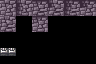
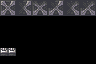
Multi-floor dungeons now present

Changed region(s): [[0.0, 0.0, 1.0, 0.5]]

diff --git a/app/dungeon_maker/terrain_maker.py b/app/dungeon_maker/terrain_maker.py
@@ -114,22 +114,78 @@ class FloorTerrain(Terrain):
 class WallTerrain(WangEdge2Terrain16):
     terrain_like = ('Wall', )
 
-    def _determine_index(self, tilemap, pos: tuple) -> tuple:
-        north, east, south, west = tilemap.get_cardinal_terrain(pos)
-        # Edge is true when we have an adjacent walllike
-        north_edge = bool(north in self.terrain_like)
-        south_edge = bool(south in self.terrain_like)
-        east_edge = bool(east in self.terrain_like)
-        west_edge = bool(west in self.terrain_like)
-        index = 1 * north_edge + 2 * east_edge + 4 * south_edge + 8 * west_edge
-        return index
+    def __init__(self,tileset_image_fn):
+        super().__init__(tileset_image_fn)
+        self.wall_grid = {}
+
+    def single_process(self, tilemap) -> None:
+        all_walls = {pos for pos, terrain in tilemap.terrain_grid.items() if terrain == 'Wall'}
+
+        for pos in all_walls.copy():
+            north, east, south, west = tilemap.get_cardinal_terrain(pos)
+            if east != 'Wall' and west != 'Wall' and south != 'Wall':
+                if tilemap.calc_layer(pos) == 1:
+                    self.wall_grid[pos] = 'Bottom'
+                else:
+                    self.wall_grid[pos] = 'Top'
+                all_walls.remove(pos)
+
+        for pos in all_walls.copy():
+            south = (pos[0], pos[1] + 1)
+            if south in self.wall_grid:
+                self.wall_grid[pos] = 'Top'
+                all_walls.remove(pos)
+
+        for pos in all_walls.copy():
+            north = (pos[0], pos[1] - 1)
+            south = (pos[0], pos[1] + 1)
+            if tilemap.get_terrain(north) == 'Wall' and tilemap.get_terrain(south) != 'Wall' and \
+                    (tilemap.get_layer(pos) == 1 or tilemap.get_layer(south) == 1):
+                self.wall_grid[pos] = 'Bottom'
+                all_walls.remove(pos)
+
+        for pos in all_walls:
+            self.wall_grid[pos] = 'Top'
+
+        # Convert pieces that are surrounded to void
+        convert_to_void = set()
+        for pos in self.wall_grid.keys():
+            if all(kind == 'Top' or not tilemap.check_bounds(*adj) for kind, adj in 
+                   zip(self.get_cardinal_wallgrid(pos) + self.get_diagonal_wallgrid(pos),
+                       self.get_cardinal_positions(pos) + self.get_diagonal_positions(pos))):
+                convert_to_void.add(pos)
+
+        for pos in convert_to_void:
+            self.wall_grid[pos] = 'Void'
+
+    def get_cardinal_positions(self, pos: tuple) -> tuple:
+        return (
+            (pos[0], pos[1] - 1),
+            (pos[0] + 1, pos[1]),
+            (pos[0], pos[1] + 1),
+            (pos[0] - 1, pos[1]),
+        )
+
+    def get_diagonal_positions(self, pos: tuple) -> tuple:
+        return (
+            (pos[0] + 1, pos[1] - 1),
+            (pos[0] + 1, pos[1] + 1),
+            (pos[0] - 1, pos[1] + 1),
+            (pos[0] - 1, pos[1] - 1),
+        )
+
+    def get_cardinal_wallgrid(self, pos: tuple) -> tuple:
+        return list(self.wall_grid.get(adj, None) for adj in self.get_cardinal_positions(pos))
+
+    def get_diagonal_wallgrid(self, pos: tuple) -> tuple:
+        return list(self.wall_grid.get(adj, None) for adj in self.get_diagonal_positions(pos))
 
     def determine_sprite_coords(self, tilemap, pos: tuple) -> tuple:
         north, east, south, west = tilemap.get_cardinal_terrain(pos)
         northeast, southeast, southwest, northwest = tilemap.get_diagonal_terrain(pos)
 
         # Check if we are in a layer 1 room and need to display the lower portion of the wall
-        if north in self.terrain_like and tilemap.get_layer(pos) == 1 and south not in self.terrain_like:
+        if self.wall_grid[pos] == 'Bottom':
             left, right, shadow = True, True, False
             if west in self.terrain_like and southwest not in self.terrain_like:
                 left = False
@@ -150,9 +206,29 @@ class WallTerrain(WangEdge2Terrain16):
             else:
                 coord = (3, 5)
 
-        else: # Display the normal upper portion of the wall
-            index = self._determine_index(tilemap, pos)
+        elif self.wall_grid[pos] == 'Top': # Display the normal upper portion of the wall
+            nwall, ewall, swall, wwall = self.get_cardinal_wallgrid(pos)
+            newall, sewall, swwall, nwwall = self.get_diagonal_wallgrid(pos)
+            # Edge is true when we have an adjacent walllike
+            north_edge = bool(north in self.terrain_like and nwall not in ('Bottom', 'Void'))
+            south_edge = bool(south in self.terrain_like and swall not in ('Bottom', 'Void'))
+            east_edge = bool(east in self.terrain_like and ewall not in ('Bottom', 'Void'))
+            west_edge = bool(west in self.terrain_like and wwall not in ('Bottom', 'Void'))
+            index = 1 * north_edge + 2 * east_edge + 4 * south_edge + 8 * west_edge
             coord = random_choice([(index, k) for k in range(self.limits[index])], pos)
+
+            if index in (12, 13) and swwall == 'Top':
+                coord = (15, 4)
+            elif index in (6, 7) and sewall == 'Top':
+                coord = (14, 4)
+            elif index in (14, 15) and sewall == 'Top' and swwall == 'Top':
+                coord = (15, 3) 
+
+        elif self.wall_grid[pos] == 'Void':
+            coord = (15, 2)
+
+        else:
+            print("Wall was not correctly processed: ", pos)
 
         new_coords1 = [(coord[0]*2, coord[1]*2)]
         new_coords2 = [(coord[0]*2 + 1, coord[1]*2)]
@@ -212,9 +288,6 @@ class StairsRightTerrain(StairsLeftTerrain):
 class PillarTerrain(Terrain):
     terrain_like = ('Pillar', )
 
-class VoidTerrain(Terrain):
-    terrain_like = ('Void', )
-
 def get_terrain(theme: str):
     # Right now, there is only one theme
     theme_dir = 'app/dungeon_maker/palettes/dungeon/'
@@ -222,7 +295,6 @@ def get_terrain(theme: str):
             'Floor2': FloorTerrain(os.path.join(theme_dir, 'floor2.png')),
             'Wall': WallTerrain(os.path.join(theme_dir, 'wall.png')),
             'Pillar': PillarTerrain(os.path.join(theme_dir, 'pillar.png')),
-            'Void': VoidTerrain(os.path.join(theme_dir, 'void.png')),
             'StairsUpDown': StairsUpDownTerrain(os.path.join(theme_dir, 'stairs_updown.png')),
             'StairsLeft': StairsLeftTerrain(os.path.join(theme_dir, 'stairs_left.png')),
             'StairsRight': StairsRightTerrain(os.path.join(theme_dir, 'stairs_right.png')),

diff --git a/app/dungeon_maker/dungeon_maker.py b/app/dungeon_maker/dungeon_maker.py
@@ -31,6 +31,16 @@ class DungeonTileMap:
 
     def get_layer(self, pos: Tuple[int, int]) -> int:
         return self.layer_grid.get(pos, None)
+
+    def calc_layer(self, pos: Tuple[int, int]) -> int:
+        def south(pos: Tuple):
+            return pos[0], pos[1] + 1
+
+        while pos[1] < self.height:
+            if self.get_layer(pos):
+                return self.get_layer(pos)
+            pos = south(pos)
+        return None
     
     def set_layer(self, x: int, y: int, layer: int):
         self.layer_grid[(x, y)] = layer
@@ -425,6 +435,8 @@ def place_connections_onto_grid(tilemap: DungeonTileMap, connections: Set[Tuple[
         # Place regular floors
         if len(layers) == 1:
             tilemap.terrain_grid[connection] = 'Floor'
+            # Set the layer of this one
+            tilemap.layer_grid[connection] = list(layers)[0]
         # Place stairs
         elif len(layers) == 2:
             # Determine direction
@@ -498,6 +510,12 @@ def generate_dungeon(theme: str, size: Tuple[int, int], seed=-1):
                 if north == 'Wall' and north2 != 'Wall':
                     tilemap.set_terrain(*pos, 'Wall')
 
+        # Fill in alcoves
+        for pos in tilemap.terrain_grid.keys():
+            north, east, south, west = tilemap.get_cardinal_terrain(pos)
+            if sum([north == 'Wall', east == 'Wall', south == 'Wall', west == 'Wall']) >= 3:
+                tilemap.set_terrain(*pos, 'Wall')
+
         # Check number of rooms
         floor_tiles = get_floor_positions(tilemap)
         print(len(floor_tiles))
@@ -505,15 +523,6 @@ def generate_dungeon(theme: str, size: Tuple[int, int], seed=-1):
         print("Number of Rooms", len(rooms))
         if len(rooms) != 1:
             continue
-
-        # Change walls surrounded on all sides by other walls to voids
-        # Also don't change walls that are two above a layer 1 room (needs two tile walls)
-        for pos in tilemap.terrain_grid.keys():
-            if tilemap.get_terrain(pos) == 'Wall':
-                adjacent_terrain = tilemap.get_cardinal_terrain(pos) + tilemap.get_diagonal_terrain(pos)
-                if all(adj in ('Wall', 'Void') or adj is None for adj in adjacent_terrain) and \
-                        tilemap.get_layer((pos[0], pos[1] + 2)) != 1:
-                    tilemap.set_terrain(*pos, 'Void')
 
         final_rooms: List[Room] = find_all_rooms(floor_tiles)
         print_rooms(final_rooms)

diff --git a/app/events/screen_positions.py b/app/events/screen_positions.py
@@ -6,11 +6,11 @@ if MEMENTO_MODE:
                                    'Left': 36,
                                    'MidLeft': 72,
                                    'CenterLeft': 72,
-                                   'CenterRight': WINWIDTH - 128 - 72,
-                                   'MidRight': WINWIDTH - 128 - 72,
-                                   'LevelUpRight': WINWIDTH - 128 - 40,
-                                   'Right': WINWIDTH - 128 - 36,
-                                   'FarRight': WINWIDTH - 128,
+                                   'CenterRight': WINWIDTH - 96 - 72,
+                                   'MidRight': WINWIDTH - 96 - 72,
+                                   'LevelUpRight': WINWIDTH - 96 - 40,
+                                   'Right': WINWIDTH - 96 - 36,
+                                   'FarRight': WINWIDTH - 96,
                                    'OffscreenRight': WINWIDTH}
 else:
     horizontal_screen_positions = {'OffscreenLeft': -96,

diff --git a/app/engine/info_menu.py b/app/engine/info_menu.py
@@ -594,8 +594,8 @@ class InfoMenuState(State):
 
         im, offset = icons.get_portrait(self.unit)
         if im:
-            x_pos = max(0, (im.get_width() - 86)//2)
-            rect = (x_pos, offset//2, 86, 76)
+            x_pos = max(0, 0)
+            rect = (x_pos, offset//2, 96, 76)
             portrait_surf = engine.subsurface(im, rect)
             surf.blit(portrait_surf, (103, 4))
 
